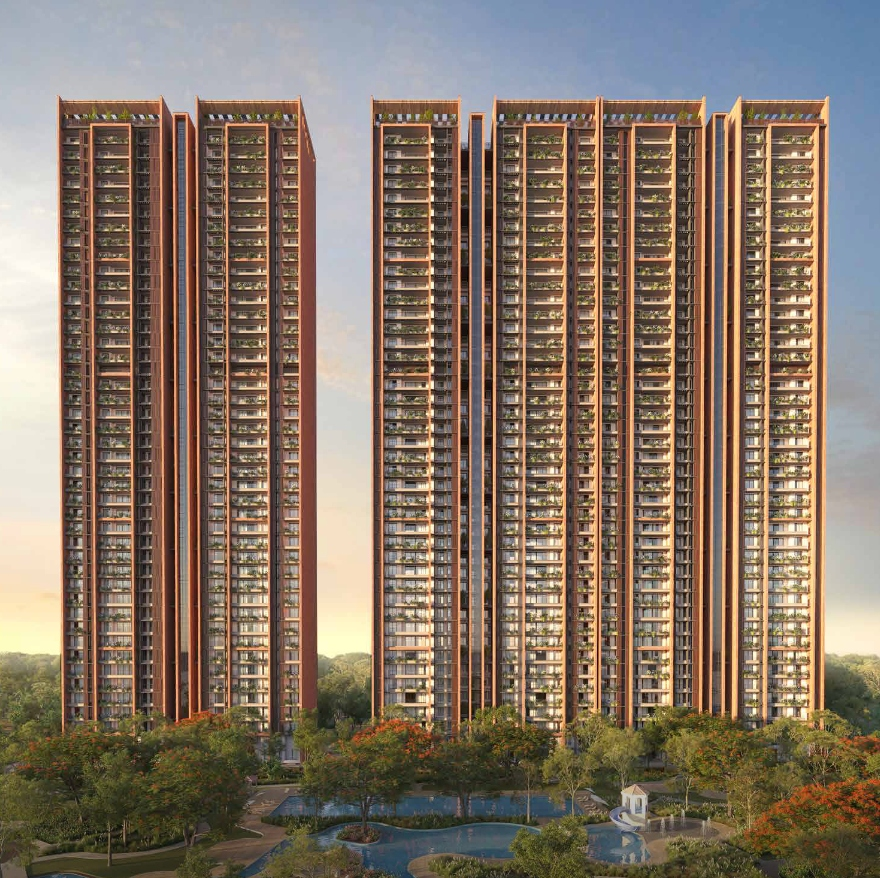
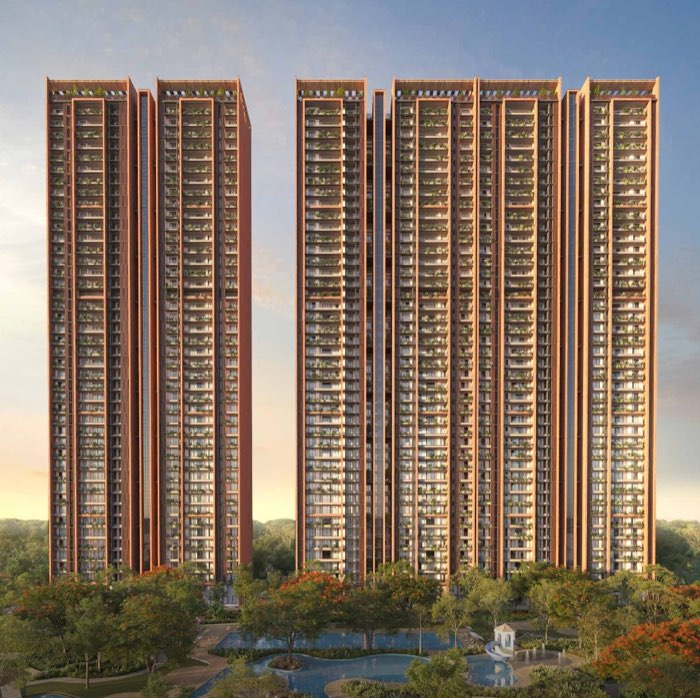
Optimize page load speed by compressing images and configure FormSubmit form email

diff --git a/app.js b/app.js
@@ -173,7 +173,7 @@ function initCardSelection() {
 }
 
 /* ----------------------------------------------------
-   Form Validation & Mock Lead Submission
+   Form Validation & Live Lead Submission to Email
 ------------------------------------------------------- */
 function initLeadFormHandler() {
   const form = document.getElementById('qualifying-lead-form');
@@ -181,6 +181,22 @@ function initLeadFormHandler() {
   const submitBtn = document.getElementById('submit-form-button');
 
   if (!form || !feedback) return;
+
+  const budgetMap = {
+    '3-5-cr': '₹3.0 Crore – ₹5.0 Crore',
+    '5-10-cr': '₹5.0 Crore – ₹10.0 Crore',
+    '10-cr-plus': '₹10.0 Crore +'
+  };
+  const configMap = {
+    '3-bhk': '3 BHK Luxury Flat',
+    '4-bhk': '4 BHK Premium Residence',
+    'penthouse': 'Penthouse / Duplex'
+  };
+  const locationMap = {
+    'dwarka-expressway': 'Dwarka Expressway Corridor',
+    'new-gurgaon': 'New Gurgaon Sectors',
+    'golf-course-ext': 'Golf Course Extension Rd'
+  };
 
   form.addEventListener('submit', (e) => {
     e.preventDefault();
@@ -220,33 +236,64 @@ function initLeadFormHandler() {
     // Submit state loading indicator
     submitBtn.disabled = true;
     const originalText = submitBtn.innerHTML;
-    submitBtn.innerHTML = `<span>Validating Criteria...</span>`;
+    submitBtn.innerHTML = `<span>Securing Invitation...</span>`;
 
-    // Simulate luxury lead dispatch server call
-    setTimeout(() => {
+    // Send data to goldenagelandbase9@gmail.com via FormSubmit.co
+    fetch("https://formsubmit.co/ajax/goldenagelandbase9@gmail.com", {
+      method: "POST",
+      headers: {
+        'Content-Type': 'application/json',
+        'Accept': 'application/json'
+      },
+      body: JSON.stringify({
+        _subject: `New VIP Lead: ${name} (${budgetMap[budget] || budget})`,
+        _replyto: email,
+        "Full Name": name,
+        "Phone Number": phone,
+        "Email Address": email,
+        "Budget Range": budgetMap[budget] || budget,
+        "Desired Configuration": configMap[config] || config,
+        "Preferred Location": locationMap[location] || location,
+        "Selected Project/Context": document.getElementById('selected-project').value
+      })
+    })
+    .then(response => {
+      if (!response.ok) {
+        throw new Error('Network response was not ok');
+      }
+      return response.json();
+    })
+    .then(data => {
       submitBtn.disabled = false;
       submitBtn.innerHTML = originalText;
-      
+
       // Success Response
       feedback.classList.add('success');
-      feedback.textContent = `Invitation Secured! Our Private Wealth Executive will contact you shortly at ${phone}.`;
-      
+      feedback.textContent = `VIP Invitation Secured! Inquiry sent successfully.`;
+
       // Redirect to WhatsApp chat after successful signup (optional UX delight)
       const encodedMsg = encodeURIComponent(
-        `Hello GoldenAge Landbase, I have registered my interest for luxury residences in Gurgaon. Name: ${name}, Configuration: ${config}, Budget: ${budget}. Please share the portfolio.`
+        `Hello GoldenAge Landbase, I have registered my interest for luxury residences in Gurgaon. Name: ${name}, Configuration: ${configMap[config] || config}, Budget: ${budgetMap[budget] || budget}. Please share the portfolio.`
       );
-      
+
       setTimeout(() => {
         window.open(`https://wa.me/919311996911?text=${encodedMsg}`, '_blank');
         form.reset();
-        
+
         // Reset form title to default
         const formTitle = document.querySelector('.form-card-title');
         if (formTitle) {
           formTitle.textContent = 'Secure VIP Invitation';
         }
       }, 1500);
-
-    }, 1800);
+    })
+    .catch(error => {
+      console.error('Submission Error:', error);
+      submitBtn.disabled = false;
+      submitBtn.innerHTML = originalText;
+      
+      feedback.classList.add('error');
+      feedback.textContent = 'Something went wrong. Please check your network or contact us via WhatsApp directly.';
+    });
   });
 }

diff --git a/index.html b/index.html
@@ -16,14 +16,14 @@
   <meta property="og:url" content="https://goldenagelandbase.com/luxury-apartments-gurgaon/">
   <meta property="og:title" content="Luxury Apartments in Gurgaon | Dwarka Expressway Properties from ₹3 Cr">
   <meta property="og:description" content="Explore Gurgaon's premium 3 & 4 BHK ultra-luxury apartments. Custom ROI models, high appreciation potential, and bespoke lifestyle amenities.">
-  <meta property="og:image" content="assets/hero-apartment.png">
+  <meta property="og:image" content="assets/hero-apartment.jpg">
 
   <!-- Twitter -->
   <meta property="twitter:card" content="summary_large_image">
   <meta property="twitter:url" content="https://goldenagelandbase.com/luxury-apartments-gurgaon/">
   <meta property="twitter:title" content="Luxury Apartments in Gurgaon | Dwarka Expressway Properties from ₹3 Cr">
   <meta property="twitter:description" content="Explore Gurgaon's premium 3 & 4 BHK ultra-luxury apartments. Custom ROI models, high appreciation potential, and bespoke lifestyle amenities.">
-  <meta property="twitter:image" content="assets/hero-apartment.png">
+  <meta property="twitter:image" content="assets/hero-apartment.jpg">
 
   <link rel="canonical" href="https://goldenagelandbase.com/luxury-apartments-gurgaon/">
 
@@ -163,7 +163,7 @@
     <!-- Hero Section -->
     <section class="hero-section" id="hero">
       <div class="hero-background-wrapper">
-        <img src="assets/hero-apartment.png" alt="Ultra-luxury high rise apartment tower in Gurgaon Dwarka Expressway" class="hero-bg-img" fetchpriority="high">
+        <img src="assets/hero-apartment.jpg" alt="Ultra-luxury high rise apartment tower in Gurgaon Dwarka Expressway" class="hero-bg-img" fetchpriority="high">
         <div class="hero-gradient-overlay"></div>
       </div>
       <div class="hero-container">
@@ -293,7 +293,7 @@
           <!-- Property Card 4 -->
           <article class="property-card">
             <div class="card-image-wrapper">
-              <img src="assets/bptp-downtown66.png" alt="BPTP Downtown 66, Sector 66 Golf Course Extension Road Gurgaon" loading="lazy">
+              <img src="assets/bptp-downtown66.jpg" alt="BPTP Downtown 66, Sector 66 Golf Course Extension Road Gurgaon" loading="lazy">
               <div class="card-tag">Signature High-Rise</div>
             </div>
             <div class="card-content">
